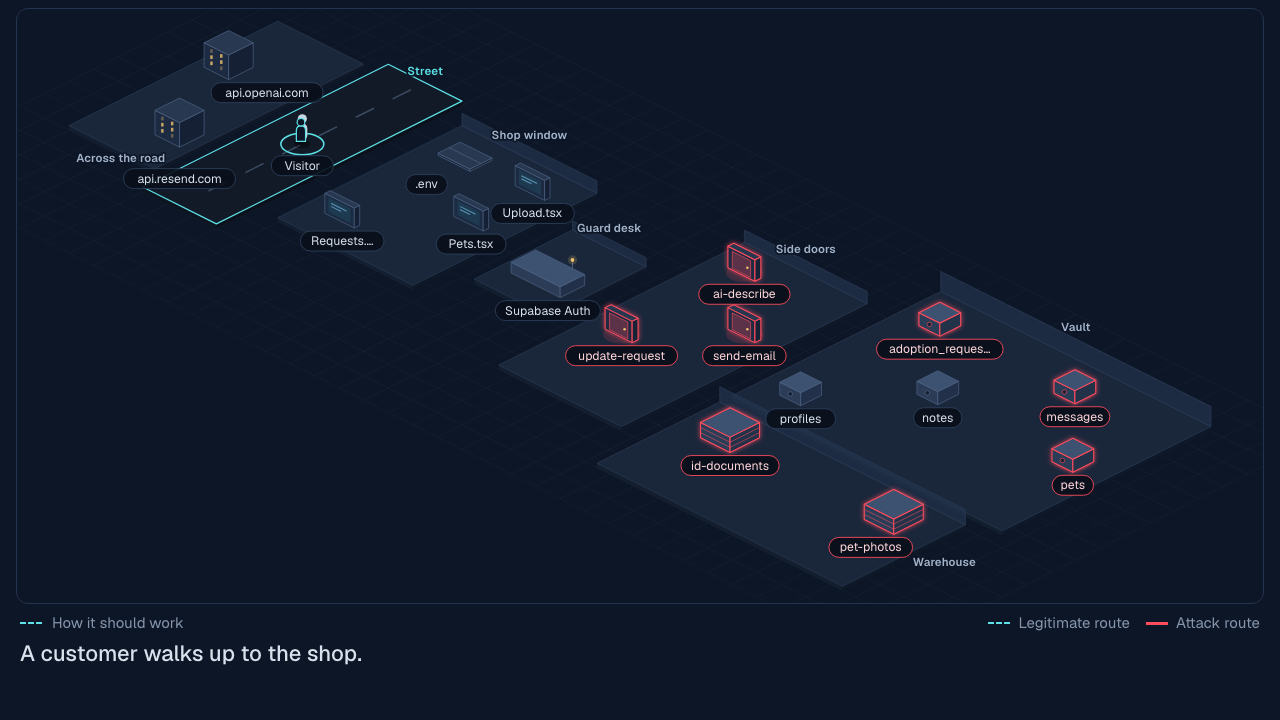
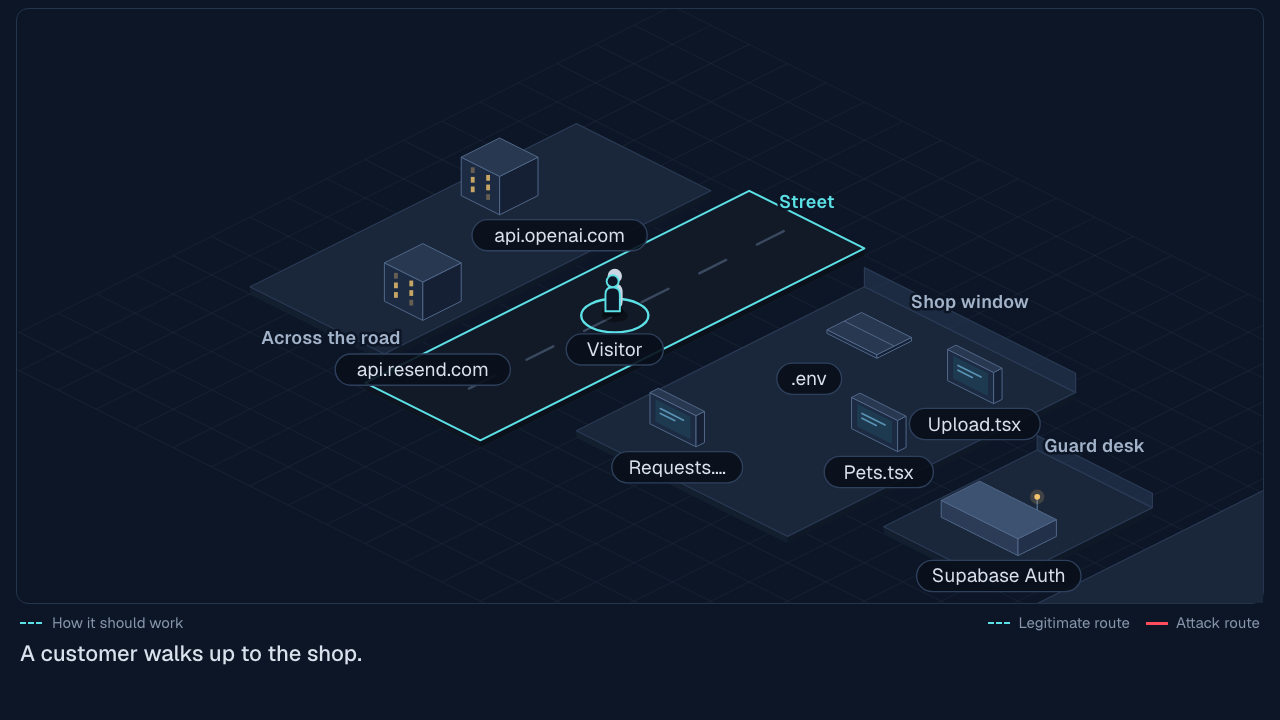
fix(web): record mode frames the finding, centred

diff --git a/web/components/replay/camera.ts b/web/components/replay/camera.ts
@@ -161,6 +161,53 @@ function drawnRect(kind: string, p: { x: number; y: number }): Rect {
 }
 
 /**
+ * The map rects a steady wide frame must hold for `finding` (or, with none,
+ * for a clean app's doors). `rings`: hold each item's highlight ring and glow
+ * too, not only its box.
+ */
+function heistRects(scene: Scene, finding: SceneFinding | null, extra: Rect[], rings: boolean): Rect[] {
+  const placed = placeItems(scene);
+  const labels = layoutLabels(placed);
+  const titles = zoneTitles();
+  const rects: Rect[] = [...extra];
+  let zones: Set<ZoneId>;
+  let ids: Set<string>;
+  if (finding) {
+    const steps = [...finding.ghost_path, ...finding.attack_path];
+    ids = new Set(steps.map((s) => s.item_id));
+    zones = new Set<ZoneId>([...steps.map((s) => s.zone), "street"]);
+    for (const r of [routePath(finding.ghost_path, scene), routePath(finding.attack_path, scene)]) {
+      rects.push(...r.points.map((p) => ({ x: p.x, y: p.y, w: 0, h: 0 })));
+    }
+    rects.push(...zoneRects("street"));
+    // The last stop's whole zone: the vault for an open table, where the proof lands.
+    const last = finding.attack_path.at(-1);
+    if (last) rects.push(...zoneRects(last.zone));
+    for (const p of placed) if (p.item.kind === "visitor") ids.add(p.item.node_id);
+  } else {
+    zones = new Set(LOCK_ZONES.filter((id) => scene.zones.find((z) => z.id === id)?.active));
+    ids = new Set(placed.filter((p) => zones.has(p.zone)).map((p) => p.item.node_id));
+    for (const z of zones) rects.push(...zoneRects(z));
+  }
+  for (const p of placed) {
+    if (ids.has(p.item.node_id)) rects.push(rings ? drawnRect(p.item.kind, p) : boxRect(p.item.kind, p));
+  }
+  rects.push(...labels.filter((l) => ids.has(l.nodeId)).map((l) => l.rect));
+  rects.push(...titles.filter((t) => zones.has(t.zone)).map((t) => t.rect));
+  return rects;
+}
+
+/** Every drawn item box, for checking what a frame cuts. */
+function drawnBoxes(scene: Scene) {
+  return placeItems(scene)
+    .filter((p) => !p.overflow)
+    .map((p) => ({ id: p.item.node_id, rect: drawnRect(p.item.kind, p) }));
+}
+
+/** Never zoom in past WIDE_MIN_WIDTH map px, nor past WIDE_MAX_SCALE on a big box. */
+const wideMinWidth = (size: { width: number }) => Math.max(WIDE_MIN_WIDTH, size.width / WIDE_MAX_SCALE);
+
+/**
  * The wide-screen frame: one steady frame for the whole replay (no per-step
  * camera, so a recording does not sway), shaped like the map box `size`.
  *
@@ -181,39 +228,11 @@ export function wideFrame(
   opts: { extra?: Rect[] } = {},
 ): WideFrame {
   const aspect = size.width / size.height;
-  const placed = placeItems(scene);
-  const labels = layoutLabels(placed);
-  const titles = zoneTitles();
-  const rects: Rect[] = [...(opts.extra ?? [])];
-  let zones: Set<ZoneId>;
-  let ids: Set<string>;
-  if (finding) {
-    const steps = [...finding.ghost_path, ...finding.attack_path];
-    ids = new Set(steps.map((s) => s.item_id));
-    zones = new Set<ZoneId>([...steps.map((s) => s.zone), "street"]);
-    for (const r of [routePath(finding.ghost_path, scene), routePath(finding.attack_path, scene)]) {
-      rects.push(...r.points.map((p) => ({ x: p.x, y: p.y, w: 0, h: 0 })));
-    }
-    rects.push(...zoneRects("street"));
-    // The last stop's whole zone: the vault for an open table, where the proof lands.
-    const last = finding.attack_path.at(-1);
-    if (last) rects.push(...zoneRects(last.zone));
-    for (const p of placed) if (p.item.kind === "visitor") ids.add(p.item.node_id);
-  } else {
-    zones = new Set(LOCK_ZONES.filter((id) => scene.zones.find((z) => z.id === id)?.active));
-    ids = new Set(placed.filter((p) => zones.has(p.zone)).map((p) => p.item.node_id));
-    for (const z of zones) rects.push(...zoneRects(z));
-  }
-  for (const p of placed) if (ids.has(p.item.node_id)) rects.push(boxRect(p.item.kind, p));
-  rects.push(...labels.filter((l) => ids.has(l.nodeId)).map((l) => l.rect));
-  rects.push(...titles.filter((t) => zones.has(t.zone)).map((t) => t.rect));
-
-  // Never zoom in past WIDE_MIN_WIDTH map px, nor past WIDE_MAX_SCALE on a big box.
-  const minWidth = Math.max(WIDE_MIN_WIDTH, size.width / WIDE_MAX_SCALE);
-  let vb = fit(bbox(rects, VIEW_PAD), aspect, minWidth);
+  const minWidth = wideMinWidth(size);
+  let vb = fit(bbox(heistRects(scene, finding, opts.extra ?? [], false), VIEW_PAD), aspect, minWidth);
   const limit = vb.width * WIDE_GROW_LIMIT;
   const hidden = new Set<string>();
-  const boxes = placed.filter((p) => !p.overflow).map((p) => ({ id: p.item.node_id, rect: drawnRect(p.item.kind, p) }));
+  const boxes = drawnBoxes(scene);
   // Taking one box in can bring another to the edge: repeat until nothing is cut.
   for (let pass = 0; pass < boxes.length; pass++) {
     const cut = boxes.find((b) => !hidden.has(b.id) && crossesEdge(vb, b.rect));
@@ -227,13 +246,32 @@ export function wideFrame(
   return { ...vb, hidden: still.sort() };
 }
 
+/** The recording's margin (map px) around the heist, so no actor, route or label touches the frame edge. */
+export const RECORD_PAD = 40;
+
 /**
- * The recording's frame: the whole city (every zone, slot and label, as the
- * full map draws it), centred and fitted to the map box `size`, so no plate is
- * cut and nothing leans to one side.
+ * The recording's frame, shaped like the map box `size`.
+ *
+ * For a finding it holds what wideFrame holds (the routes, their items and
+ * labels, the zone titles, the street with the visitor and the last stop's
+ * zone), centred on them both ways with a RECORD_PAD margin. Unlike wideFrame
+ * it never grows toward a box at the edge, since that would push the action
+ * off centre: plates beyond the heist may be cut, and any box the frame cuts
+ * is listed in `hidden` (left out of the drawing). With no finding (a clean
+ * app, whose replay walks every door) it holds the whole city, centred.
  */
-export function cityFrame(size: { width: number; height: number }): WideFrame {
-  return { ...fit(VIEWBOX, size.width / size.height, 0), hidden: [] };
+export function recordFrame(
+  scene: Scene,
+  finding: SceneFinding | null,
+  size: { width: number; height: number },
+): WideFrame {
+  const aspect = size.width / size.height;
+  if (!finding) return { ...fit(VIEWBOX, aspect, 0), hidden: [] };
+  const vb = fit(bbox(heistRects(scene, finding, [], true), RECORD_PAD), aspect, wideMinWidth(size));
+  const hidden = drawnBoxes(scene)
+    .filter((b) => crossesEdge(vb, b.rect))
+    .map((b) => b.id);
+  return { ...vb, hidden: hidden.sort() };
 }
 
 export type Corner = "bottom-left" | "top-right" | "top-left" | "bottom-right";

diff --git a/web/components/replay/camera.test.ts b/web/components/replay/camera.test.ts
@@ -1,5 +1,5 @@
 import { describe, expect, test } from "vitest";
-import { CAMERA_MIN_WIDTH, cameraFrame, cityFrame } from "./camera";
+import { CAMERA_MIN_WIDTH, RECORD_PAD, cameraFrame, recordFrame, wideFrame } from "./camera";
 import { legPoints, stepStopIndices, stopFraction } from "./geometry";
 import {
   VIEWBOX,
@@ -12,6 +12,7 @@ import {
   placeItems,
   routePath,
 } from "@/components/map/layout";
+import * as layoutModule from "@/components/map/layout";
 import { PATH_OFFSET } from "@/components/map/Paths";
 import { replaySteps } from "@/lib/timeline";
 import type { PathStep } from "@/lib/scene.gen";
@@ -305,13 +306,99 @@ describe("wideFrame on a big box", () => {
   });
 });
 
-describe("cityFrame", () => {
-  test("holds the whole city, centred, shaped like the box", () => {
-    for (const size of [
-      { width: 1248, height: 594 },
-      { width: 600, height: 600 },
-    ]) {
-      const vb = cityFrame(size);
+describe("recordFrame", () => {
+  /** The recording's map box at 1280x720, and a squarer one. */
+  const SIZES = [
+    { width: 1246, height: 594 },
+    { width: 800, height: 600 },
+  ];
+  const { layoutLabels, zoneRects, zoneTitles } = layoutModule;
+  const labels = layoutLabels(placed);
+
+  /** What the story needs on screen: the routes, their items with labels, the visitor, the street and the last stop's zone. */
+  function heist(f: (typeof vulnScene.findings)[number]) {
+    const steps = [...f.ghost_path, ...f.attack_path];
+    const ids = new Set(steps.map((s) => s.item_id));
+    for (const p of placed) if (p.item.kind === "visitor") ids.add(p.item.node_id);
+    const points = [routePath(f.ghost_path, vulnScene), routePath(f.attack_path, vulnScene)].flatMap((r) =>
+      r.points.map((p) => ({ x: p.x, y: p.y, w: 0, h: 0 })),
+    );
+    const items = placed.filter((p) => ids.has(p.item.node_id)).map((p) => boxRect(p.item.kind, p));
+    const itemLabels = labels.filter((l) => ids.has(l.nodeId)).map((l) => l.rect);
+    // Items are held with their highlight ring (28 x 14 px around the ground point, plus 4 px of glow).
+    const rings = placed
+      .filter((p) => ids.has(p.item.node_id))
+      .map((p) => ({ x: p.x - 32, y: p.y - 18, w: 64, h: 36 }));
+    const visited = new Set([...steps.map((s) => s.zone), "street"]);
+    const titles = zoneTitles()
+      .filter((t) => visited.has(t.zone))
+      .map((t) => t.rect);
+    const last = f.attack_path.at(-1)!.zone;
+    return {
+      ids,
+      actors: [...points, ...items, ...itemLabels],
+      held: [...points, ...items, ...rings, ...itemLabels, ...titles, ...zoneRects("street"), ...zoneRects(last)],
+    };
+  }
+
+  const span = (rects: { x: number; y: number; w: number; h: number }[]) => ({
+    x0: Math.min(...rects.map((r) => r.x)),
+    y0: Math.min(...rects.map((r) => r.y)),
+    x1: Math.max(...rects.map((r) => r.x + r.w)),
+    y1: Math.max(...rects.map((r) => r.y + r.h)),
+  });
+
+  test("a finding: every actor, route and label sits at least RECORD_PAD inside the edge", () => {
+    for (const size of SIZES) {
+      for (const f of vulnScene.findings) {
+        const vb = recordFrame(vulnScene, f, size);
+        const { actors } = heist(f);
+        const s = span(actors);
+        expect(s.x0 - vb.x).toBeGreaterThanOrEqual(RECORD_PAD - 0.01);
+        expect(s.y0 - vb.y).toBeGreaterThanOrEqual(RECORD_PAD - 0.01);
+        expect(vb.x + vb.width - s.x1).toBeGreaterThanOrEqual(RECORD_PAD - 0.01);
+        expect(vb.y + vb.height - s.y1).toBeGreaterThanOrEqual(RECORD_PAD - 0.01);
+        expect(vb.width / vb.height).toBeCloseTo(size.width / size.height, 2);
+      }
+    }
+  });
+
+  test("a finding: the heist is centred both ways, not pulled toward an edge plate", () => {
+    for (const size of SIZES) {
+      for (const f of vulnScene.findings) {
+        const vb = recordFrame(vulnScene, f, size);
+        const s = span(heist(f).held);
+        expect(Math.abs(vb.x + vb.width / 2 - (s.x0 + s.x1) / 2)).toBeLessThan(1);
+        expect(Math.abs(vb.y + vb.height / 2 - (s.y0 + s.y1) / 2)).toBeLessThan(1);
+      }
+    }
+  });
+
+  test("a finding: frames as tightly as wideFrame allows, never wider than it grows", () => {
+    const f = finding("m1-vite-openai-api-key");
+    const size = SIZES[0];
+    const rec = recordFrame(vulnScene, f, size);
+    const wide = wideFrame(vulnScene, f, size);
+    expect(rec.width).toBeLessThanOrEqual(wide.width + 0.01);
+    expect(rec.width).toBeLessThan(VIEWBOX.width * 0.75);
+  });
+
+  test("a finding: nothing is drawn half in, and the heist's own items are never hidden", () => {
+    for (const f of vulnScene.findings) {
+      const vb = recordFrame(vulnScene, f, SIZES[0]);
+      const { ids } = heist(f);
+      for (const id of vb.hidden) expect(ids.has(id)).toBe(false);
+      for (const p of placed.filter((p) => !p.overflow && !vb.hidden.includes(p.item.node_id))) {
+        const b = boxRect(p.item.kind, p);
+        const overlaps = b.x < vb.x + vb.width && vb.x < b.x + b.w && b.y < vb.y + vb.height && vb.y < b.y + b.h;
+        if (overlaps) expect(insideView(vb, b)).toBe(true);
+      }
+    }
+  });
+
+  test("a clean app: the whole city, centred, shaped like the box", () => {
+    for (const size of SIZES) {
+      const vb = recordFrame(cleanScene, null, size);
       expect(vb.hidden).toEqual([]);
       expect(vb.width / vb.height).toBeCloseTo(size.width / size.height, 2);
       expect(vb.x).toBeLessThanOrEqual(VIEWBOX.x);
@@ -321,5 +408,10 @@ describe("cityFrame", () => {
       expect(vb.x + vb.width / 2).toBeCloseTo(VIEWBOX.x + VIEWBOX.width / 2, 0);
       expect(vb.y + vb.height / 2).toBeCloseTo(VIEWBOX.y + VIEWBOX.height / 2, 0);
     }
+  });
+
+  test("deterministic", () => {
+    const f = finding("m3-messages");
+    expect(recordFrame(vulnScene, f, SIZES[0])).toEqual(recordFrame(vulnScene, f, SIZES[0]));
   });
 });

diff --git a/web/components/replay/Replay.tsx b/web/components/replay/Replay.tsx
@@ -10,7 +10,7 @@ import { ProofRows } from "@/components/panels/ProofRows";
 import { badgeText } from "@/lib/badge";
 import { rulesCoverage, unreadMigrationsCopy, type RulesCoverage } from "@/lib/coverage";
 import { buildTimeline } from "@/lib/timeline";
-import { cameraFrame, cityFrame, pickCorner, wideFrame, type Corner } from "./camera";
+import { cameraFrame, pickCorner, recordFrame, wideFrame, type Corner } from "./camera";
 import { MARKER, makePlan, placeMarkers, replayView, type ReplayView, type Sprite } from "./replayView";
 import { handleStepKeys } from "./StepPlayer";
 import { useReplayClock, type ReplayClock } from "./useReplayClock";
@@ -379,7 +379,7 @@ export function Replay({
   idPrefix?: string;
   /** Size (px) of the wide map box before it is measured (first render and SSR). */
   wideBox?: { width: number; height: number };
-  /** The recording layout: the whole city in frame, and an end card with nothing to click. */
+  /** The recording layout: the heist centred in frame (the whole city for a clean app), and an end card with nothing to click. */
   record?: boolean;
 }) {
   const timeline = useMemo(() => buildTimeline(finding, scene), [finding, scene]);
@@ -413,8 +413,8 @@ export function Replay({
   const mapRef = useRef<HTMLDivElement>(null);
   const box = useWideBox(mapRef, wideBox);
   const wide = useMemo(() => {
-    // A recording shows the whole city, centred; the page frames the finding.
-    if (record) return cityFrame(box);
+    // A recording centres the heist and never leans toward an edge plate.
+    if (record) return recordFrame(scene, finding, box);
     const extra =
       plan.kind === "clean"
         ? plan.markerAt.map((p) => ({ x: p.x - MARKER.w / 2, y: p.y - MARKER.h / 2, w: MARKER.w, h: MARKER.h }))
